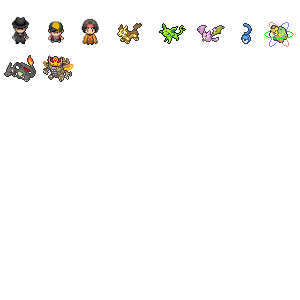
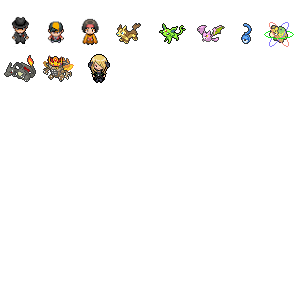
update flairs

Changed region(s): [[0.39, 0.06, 0.48, 0.15], [0.27, 0.18, 0.39, 0.27], [0.54, 0.09, 0.6, 0.15]]

diff --git a/src/userflair.css b/src/userflair.css
@@ -107,6 +107,10 @@
     background-image: url(%%specialflairs%%)!important;
     background-position: -37px -54px;
 }
+.author[href$="/DavidLuizshair"]~.flair, .flair-tournament {
+    background-image: url(%%specialflairs%%)!important;
+    background-position: -76px -52px;
+}
 
 /********************************************************************************
 * CUSTOM USER BALL FLAIRS
@@ -386,6 +390,7 @@
 .author[href$="/iadrummer"]~.flair:after,
 .author[href$="/baraboosh"]~.flair:after,
 .author[href$="/Ryantcairns"]~.flair:after,
+.author[href$="/Yugeulb"]~.flair:after,
 .author[href$="/Sushikitteh"]~.flair:after {
     background-position: -8px -129px;
 }
